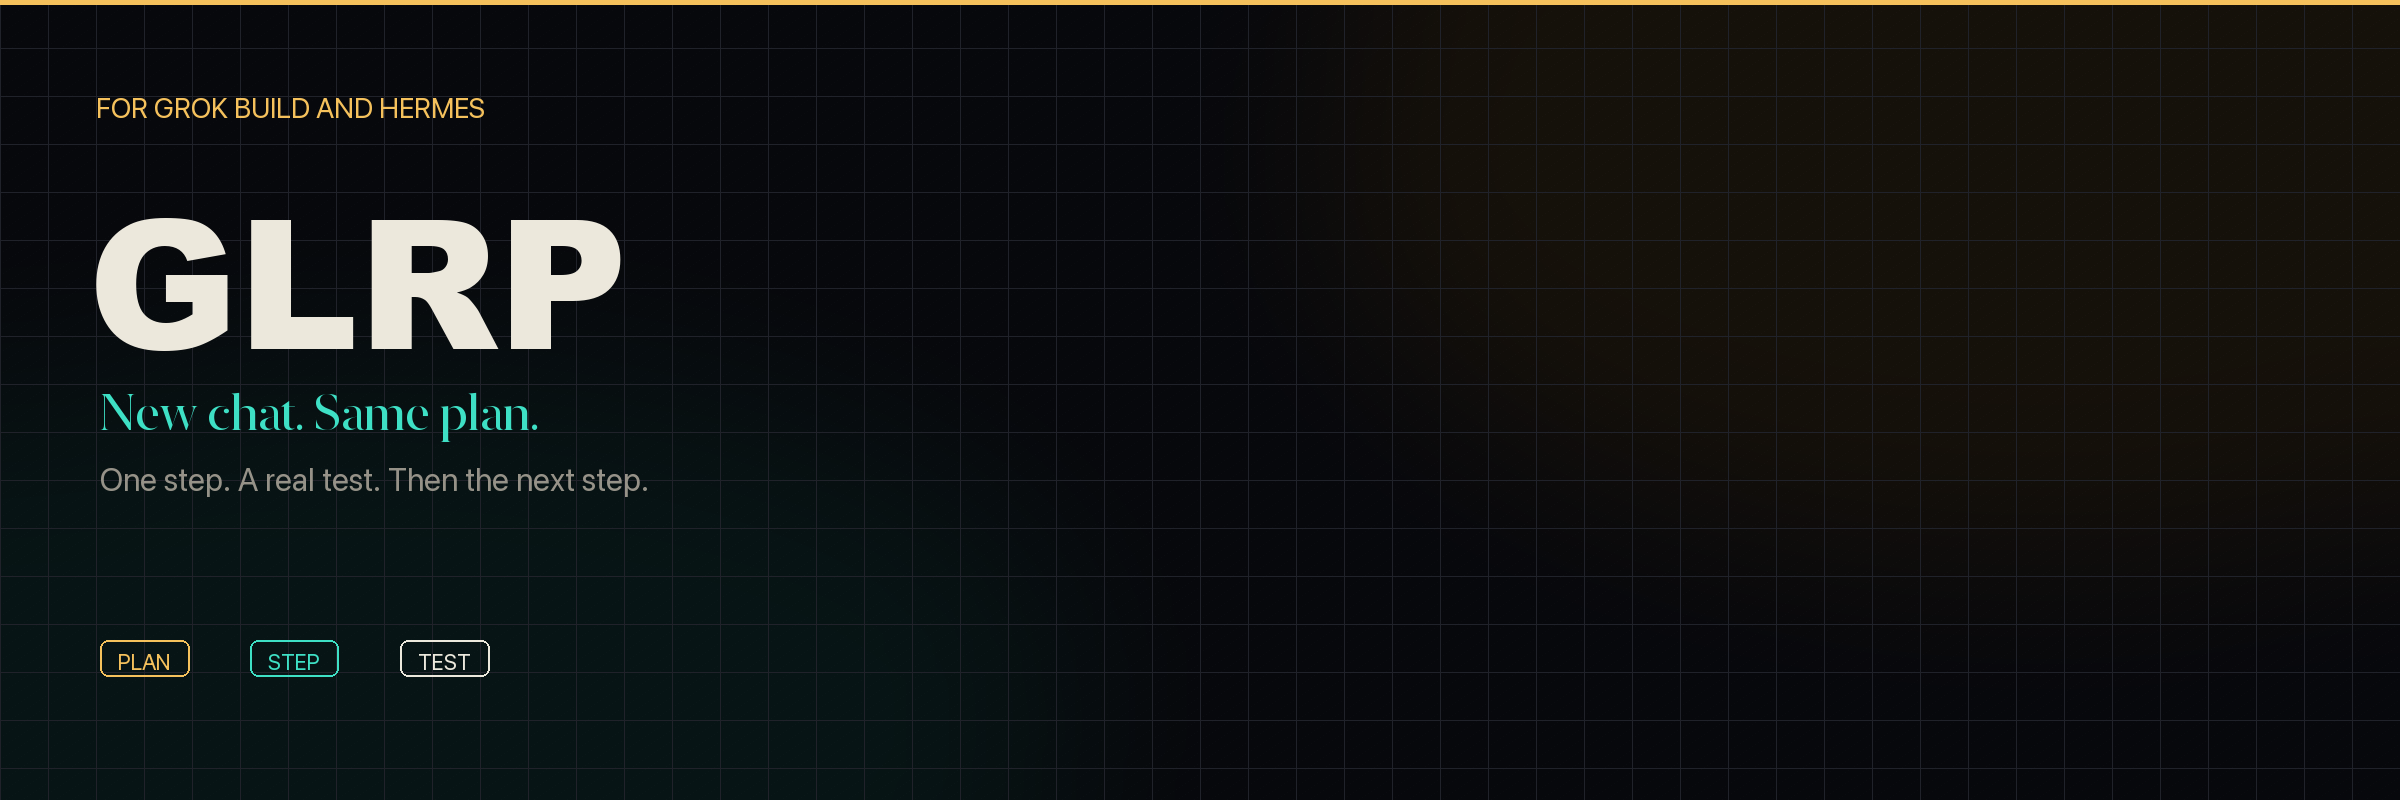
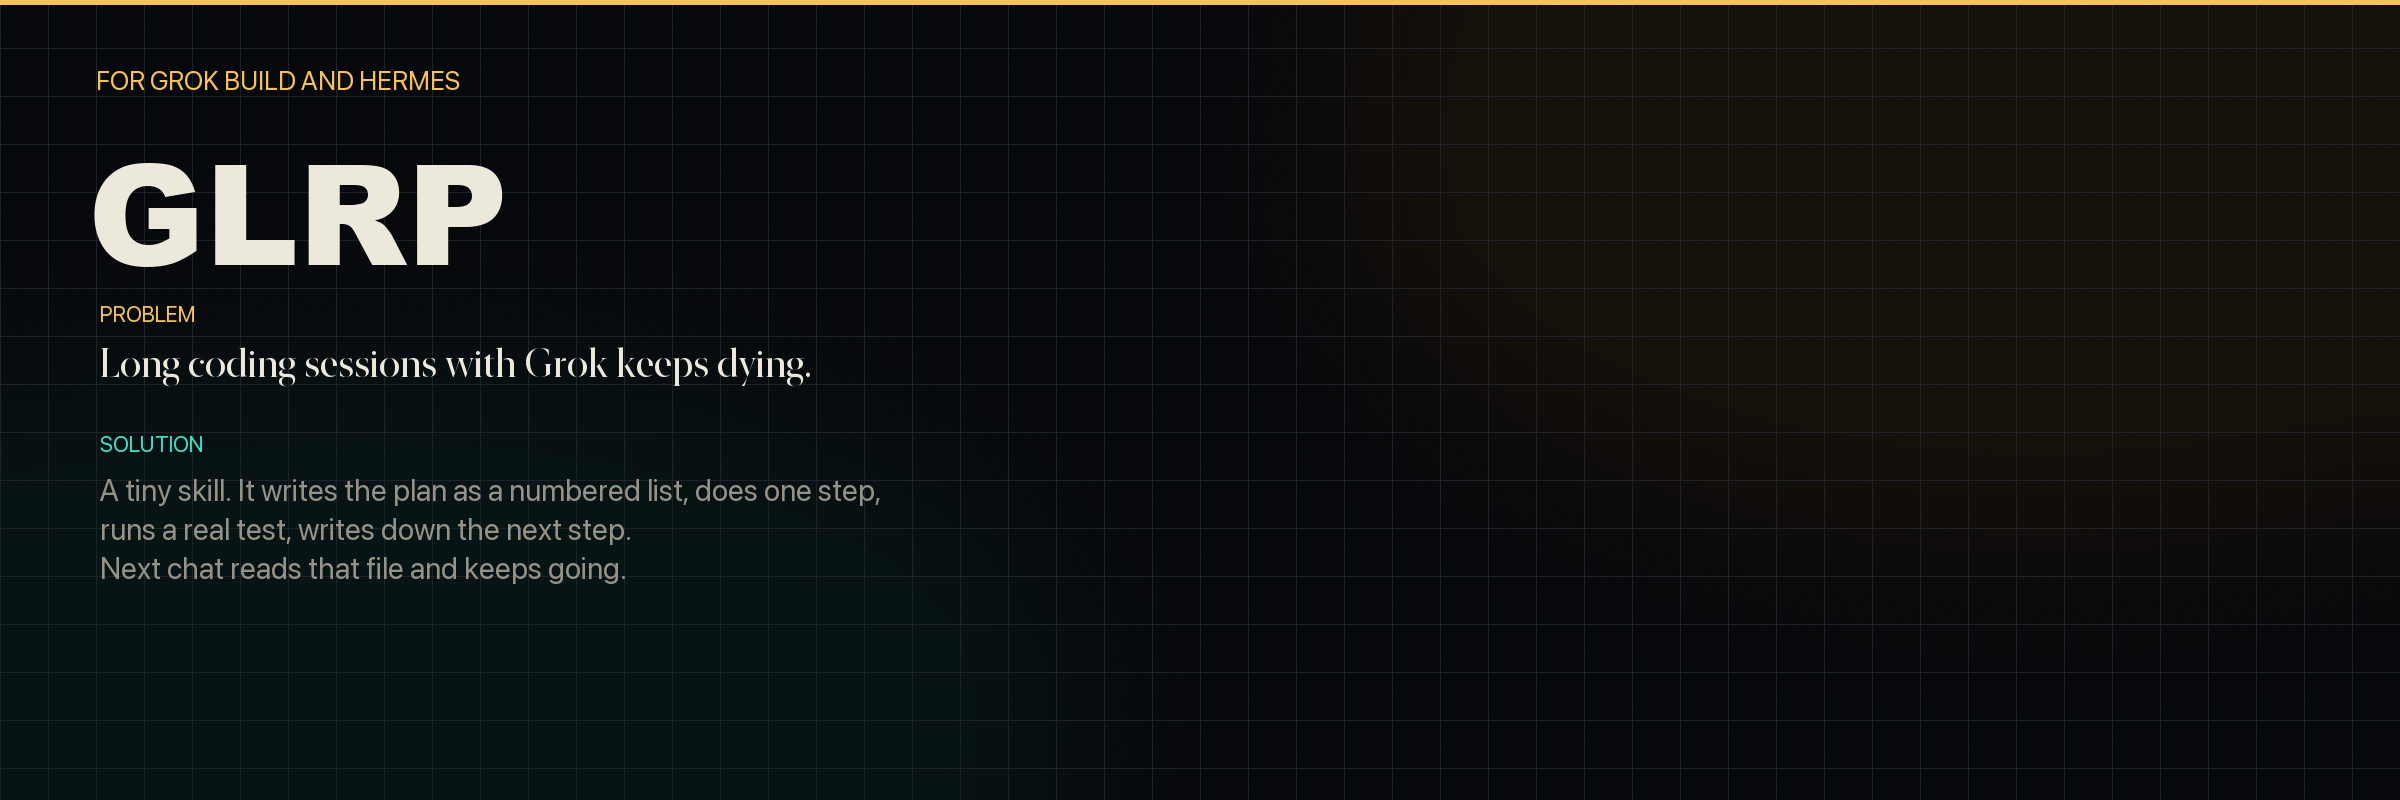
Use problem/solution copy on README and cards

diff --git a/docs/make_art.py b/docs/make_art.py
@@ -17,7 +17,6 @@ MUTED = (150, 146, 136)
 AMBER = (245, 193, 92)
 TEAL = (62, 224, 197)
 LINE = (32, 34, 42)
-CARD = (16, 17, 23)
 
 
 def font(path: str, size: int) -> ImageFont.FreeTypeFont:
@@ -28,11 +27,17 @@ F_DISPLAY = "/System/Library/Fonts/Supplemental/Arial Black.ttf"
 F_SANS = "/System/Library/Fonts/SFNS.ttf"
 F_SERIF = "/System/Library/Fonts/NewYork.ttf"
 
+PROBLEM = "Long coding sessions with Grok keeps dying."
+SOLUTION = (
+    "A tiny skill. It writes the plan as a numbered list, does one step,\n"
+    "runs a real test, writes down the next step.\n"
+    "Next chat reads that file and keeps going."
+)
+
 
 def base(w: int, h: int) -> tuple[Image.Image, ImageDraw.ImageDraw]:
     img = Image.new("RGB", (w, h), BG)
     px = img.load()
-    # faint vertical grain + vignette
     for y in range(h):
         for x in range(0, w, 3):
             n = (x * 17 + y * 31) % 11
@@ -46,54 +51,26 @@ def base(w: int, h: int) -> tuple[Image.Image, ImageDraw.ImageDraw]:
     glow = glow.filter(ImageFilter.GaussianBlur(90))
     img = Image.blend(img, glow, 0.45)
     draw = ImageDraw.Draw(img)
-    # grid
     for x in range(0, w, 48):
         draw.line((x, 0, x, h), fill=LINE)
     for y in range(0, h, 48):
         draw.line((0, y, w, y), fill=LINE)
-    # top accent bar
     draw.rectangle((0, 0, w, 4), fill=AMBER)
     return img, draw
-
-
-def chip(draw: ImageDraw.ImageDraw, xy: tuple[int, int], text: str, fill: tuple[int, int, int]) -> None:
-    x, y = xy
-    pad_x, pad_y = 18, 10
-    f = font(F_SANS, 22)
-    bbox = draw.textbbox((0, 0), text, font=f)
-    tw, th = bbox[2] - bbox[0], bbox[3] - bbox[1]
-    draw.rounded_rectangle(
-        (x, y, x + tw + pad_x * 2, y + th + pad_y * 2),
-        radius=8,
-        outline=fill,
-        width=2,
-    )
-    draw.text((x + pad_x, y + pad_y - 2), text, font=f, fill=fill)
 
 
 def social() -> Path:
     w, h = 1280, 640
     img, draw = base(w, h)
-    kicker = font(F_SANS, 22)
-    title = font(F_DISPLAY, 132)
-    sub = font(F_SERIF, 36)
-    draw.text((72, 78), "GROK  ·  HERMES", font=kicker, fill=AMBER)
-    draw.text((68, 128), "GLRP", font=title, fill=INK)
-    draw.text(
-        (74, 300),
-        "New chat. Same plan.",
-        font=sub,
-        fill=TEAL,
-    )
-    draw.text(
-        (74, 356),
-        "One step. A real test. Then the next step.",
-        font=font(F_SANS, 26),
-        fill=MUTED,
-    )
-    chip(draw, (74, 500), "PLAN", AMBER)
-    chip(draw, (210, 500), "STEP", TEAL)
-    chip(draw, (346, 500), "TEST", INK)
+    draw.text((72, 56), "GROK  ·  HERMES", font=font(F_SANS, 20), fill=AMBER)
+    draw.text((68, 92), "GLRP", font=font(F_DISPLAY, 96), fill=INK)
+
+    draw.text((74, 230), "PROBLEM", font=font(F_SANS, 18), fill=AMBER)
+    draw.text((74, 258), PROBLEM, font=font(F_SERIF, 30), fill=INK)
+
+    draw.text((74, 330), "SOLUTION", font=font(F_SANS, 18), fill=TEAL)
+    draw.text((74, 358), SOLUTION, font=font(F_SANS, 24), fill=MUTED, spacing=8)
+
     path = OUT / "social.png"
     img.save(path, "PNG", optimize=True)
     return path
@@ -102,18 +79,15 @@ def social() -> Path:
 def banner() -> Path:
     w, h = 2400, 800
     img, draw = base(w, h)
-    draw.text((96, 90), "FOR GROK BUILD AND HERMES", font=font(F_SANS, 28), fill=AMBER)
-    draw.text((88, 150), "GLRP", font=font(F_DISPLAY, 180), fill=INK)
-    draw.text((100, 380), "New chat. Same plan.", font=font(F_SERIF, 52), fill=TEAL)
-    draw.text(
-        (100, 460),
-        "One step. A real test. Then the next step.",
-        font=font(F_SANS, 32),
-        fill=MUTED,
-    )
-    chip(draw, (100, 640), "PLAN", AMBER)
-    chip(draw, (250, 640), "STEP", TEAL)
-    chip(draw, (400, 640), "TEST", INK)
+    draw.text((96, 64), "FOR GROK BUILD AND HERMES", font=font(F_SANS, 26), fill=AMBER)
+    draw.text((88, 110), "GLRP", font=font(F_DISPLAY, 140), fill=INK)
+
+    draw.text((100, 300), "PROBLEM", font=font(F_SANS, 22), fill=AMBER)
+    draw.text((100, 338), PROBLEM, font=font(F_SERIF, 40), fill=INK)
+
+    draw.text((100, 430), "SOLUTION", font=font(F_SANS, 22), fill=TEAL)
+    draw.text((100, 472), SOLUTION, font=font(F_SANS, 30), fill=MUTED, spacing=10)
+
     path = OUT / "banner.png"
     img.save(path, "PNG", optimize=True)
     return path

diff --git a/README.md b/README.md
@@ -1,5 +1,5 @@
 <p align="center">
-  <img src="docs/banner.png" alt="GLRP — New chat. Same plan." width="100%">
+  <img src="docs/banner.png" alt="GLRP — Problem: long Grok coding sessions keep dying. Solution: a tiny skill that writes the plan, does one step, runs a real test, and leaves the next step for the next chat." width="100%">
 </p>
 
 <p align="center">
@@ -13,13 +13,13 @@
 
 ---
 
-## Why this exists
+## Problem
 
-Long coding sessions with Grok keep dying. New chat = forgot the plan. Or it “continues” by building the wrong thing.
+Long coding sessions with Grok keeps dying.
 
-## What this is
+## Solution
 
-A tiny skill. It writes the plan as a numbered list, does **one** step, runs a real test, writes down the next step. Next chat reads that file and keeps going.
+A tiny skill. It writes the plan as a numbered list, does one step, runs a real test, writes down the next step. Next chat reads that file and keeps going.
 
 ## How
 
